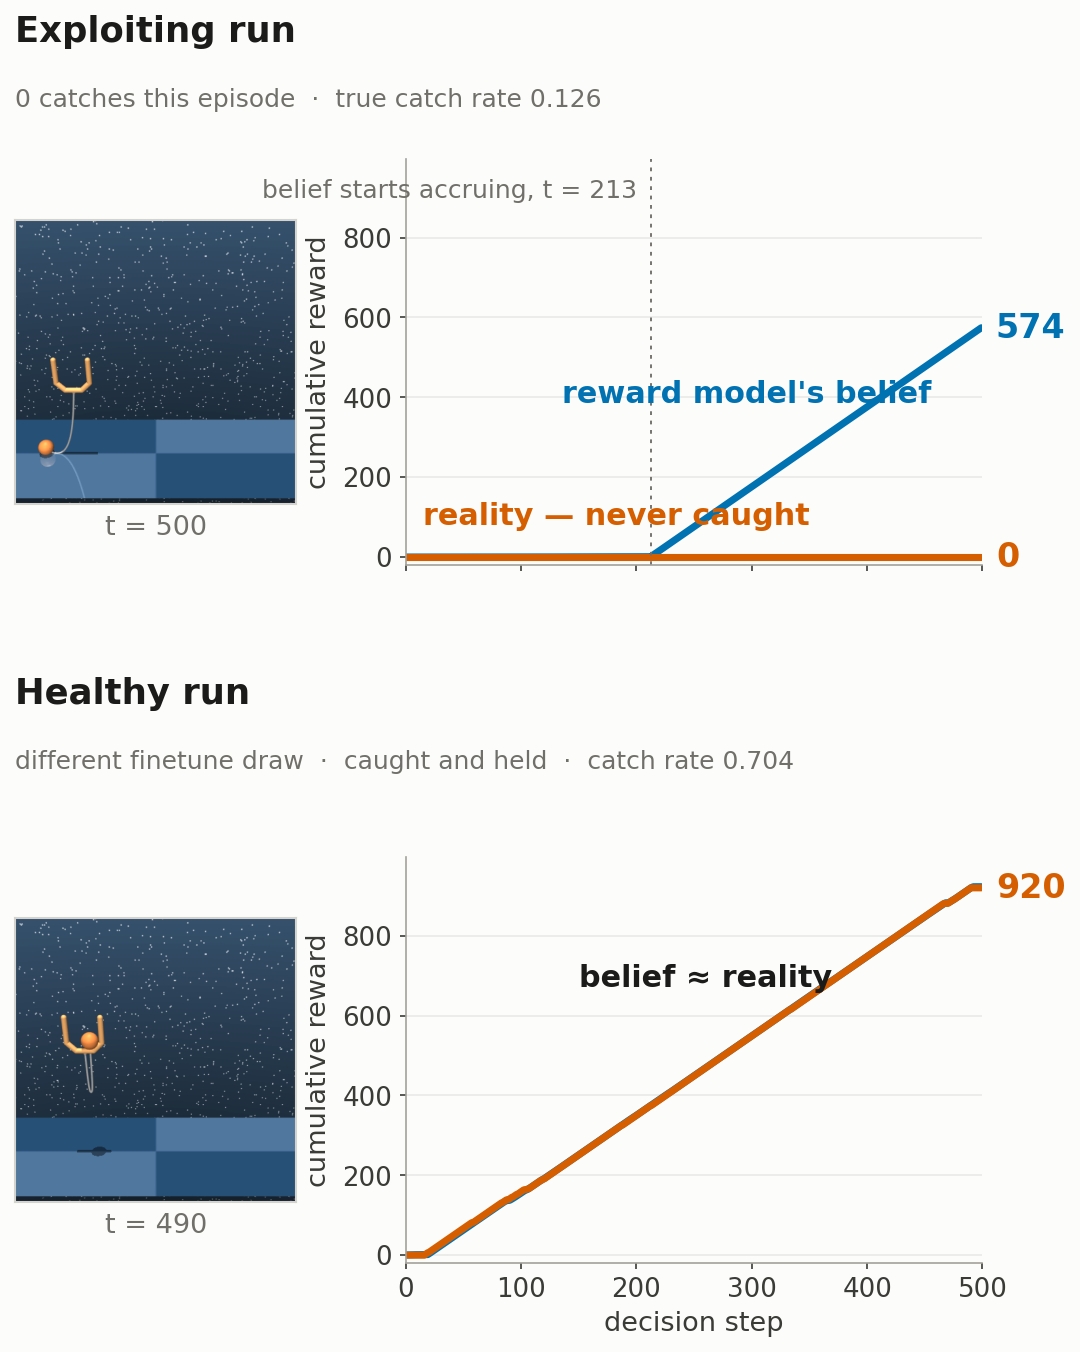
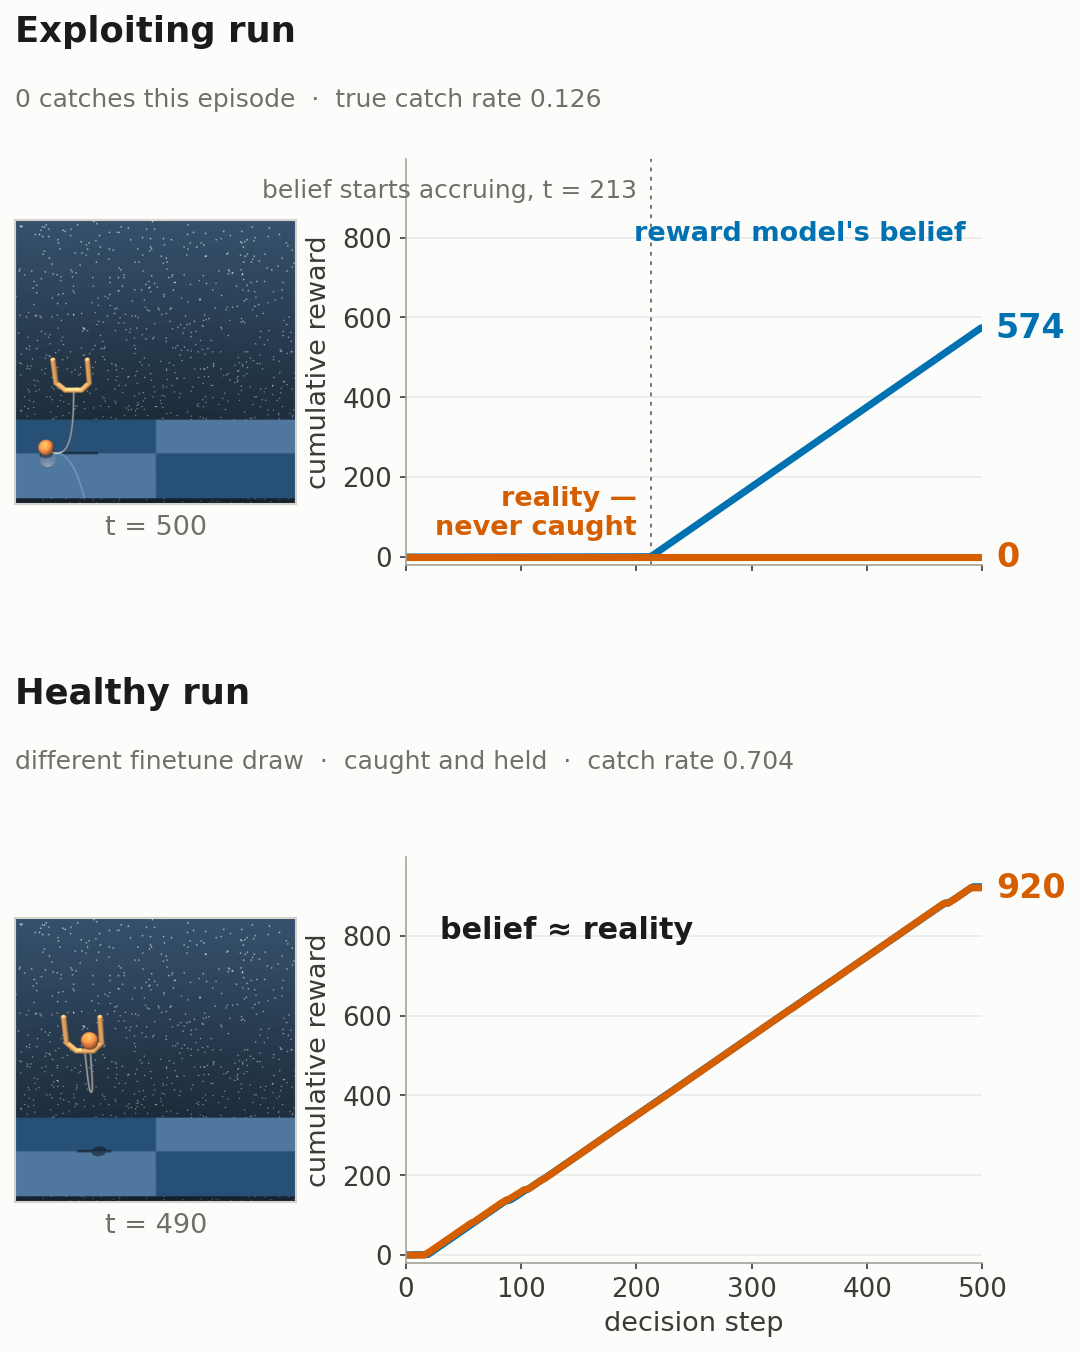
render_hero mobile cut: label positions for the narrow axes (no line/label collisions)

diff --git a/analysis/render_hero.py b/analysis/render_hero.py
@@ -357,19 +357,23 @@ def site_panel():
                 ax.axvline(t0, color=P["grey"], lw=0.9, ls=(0, (2, 3)))
                 ax.annotate(f"belief starts accruing, t = {t0}", xy=(t0, ymax * 0.92), xytext=(-7, 0),
                             textcoords="offset points", ha="right", va="center", fontsize=10 + fs, color=P["grey"])
-                ax.annotate("reward model's belief", xy=(0.27, 0.40), xycoords="axes fraction",
-                            color=P["belief"], fontsize=12.5 + fs, fontweight="bold")
                 if narrow:
-                    ax.annotate("reality — never caught", xy=(0.03, 0.10), xycoords="axes fraction",
-                                ha="left", color=P["reality"], fontsize=12.5 + fs, fontweight="bold")
+                    ax.annotate("reward model's belief", xy=(0.97, 0.80), xycoords="axes fraction",
+                                ha="right", color=P["belief"], fontsize=11 + fs, fontweight="bold")
+                    ax.annotate("reality —\nnever caught", xy=(0.40, 0.06), xycoords="axes fraction",
+                                ha="right", va="bottom", color=P["reality"], fontsize=11 + fs,
+                                fontweight="bold", linespacing=1.15)
                 else:
+                    ax.annotate("reward model's belief", xy=(0.27, 0.40), xycoords="axes fraction",
+                                color=P["belief"], fontsize=12.5 + fs, fontweight="bold")
                     ax.annotate("reality — never caught", xy=(0.97, 0.07), xycoords="axes fraction",
                                 ha="right", color=P["reality"], fontsize=12.5 + fs, fontweight="bold")
                 for y, txt, c in ((pred[-1], f"{pred[-1]:.0f}", P["belief"]), (0, "0", P["reality"])):
                     ax.annotate(txt, xy=(n - 1, y), xytext=(7, 0), textcoords="offset points",
                                 va="center", color=c, fontsize=14 + fs, fontweight="bold")
             else:
-                ax.annotate("belief ≈ reality", xy=(0.30, 0.68), xycoords="axes fraction",
+                ax.annotate("belief ≈ reality", xy=(0.06, 0.80) if narrow else (0.30, 0.68),
+                            xycoords="axes fraction", ha="left",
                             color=P["ink"], fontsize=12.5 + fs, fontweight="bold")
                 ax.annotate(f"{act[-1]:.0f}", xy=(n - 1, act[-1]), xytext=(7, 0), textcoords="offset points",
                             va="center", color=P["reality"], fontsize=14 + fs, fontweight="bold")
